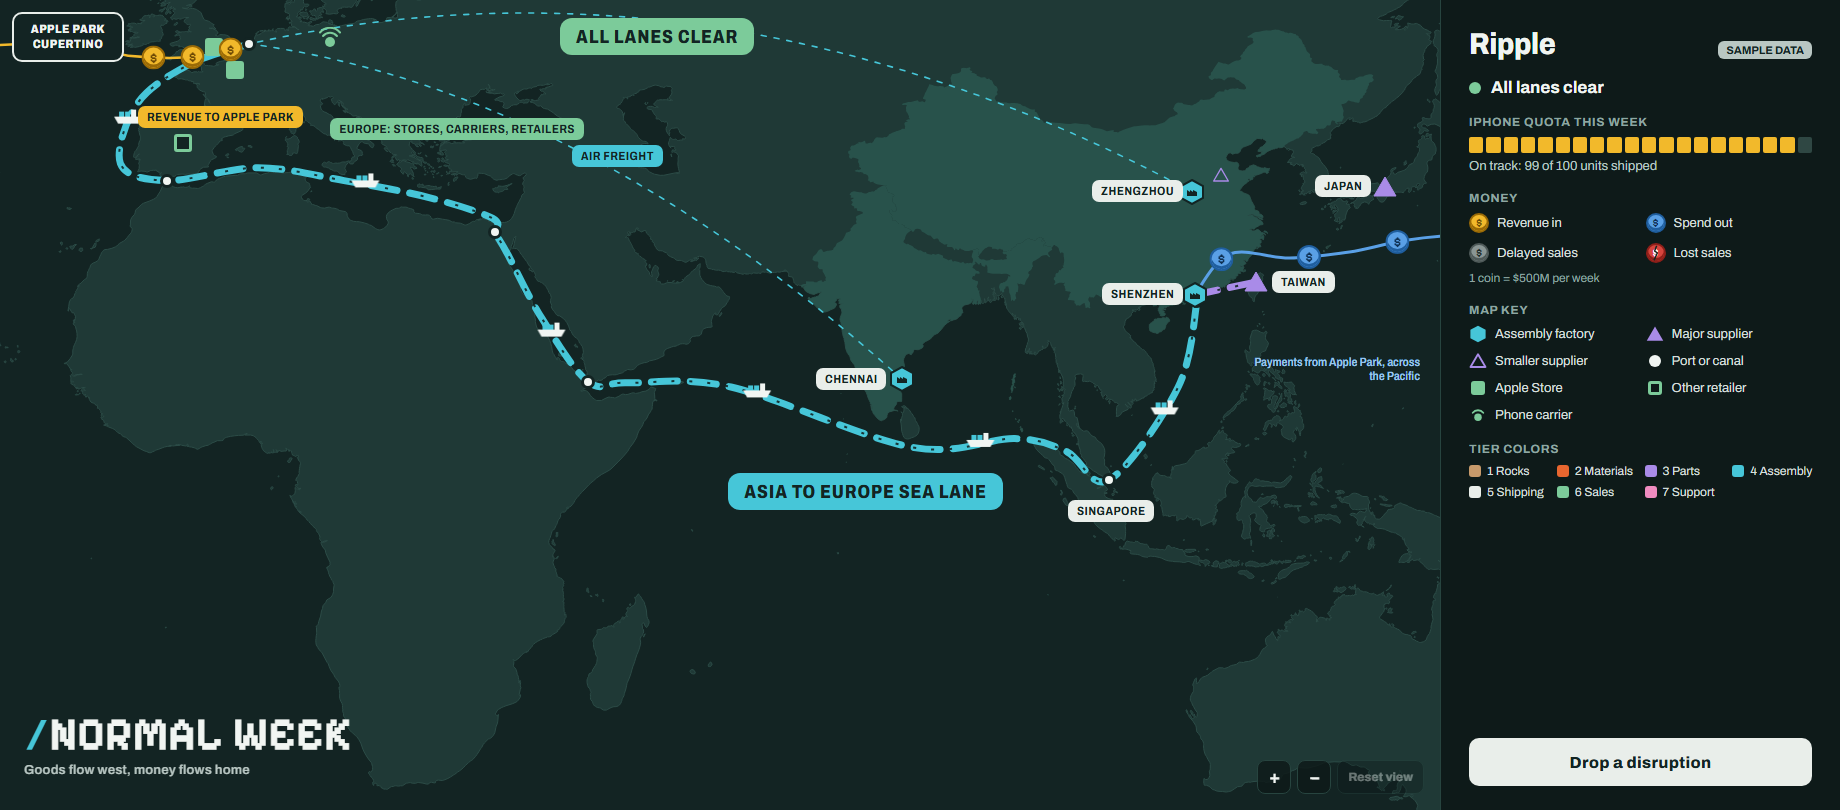
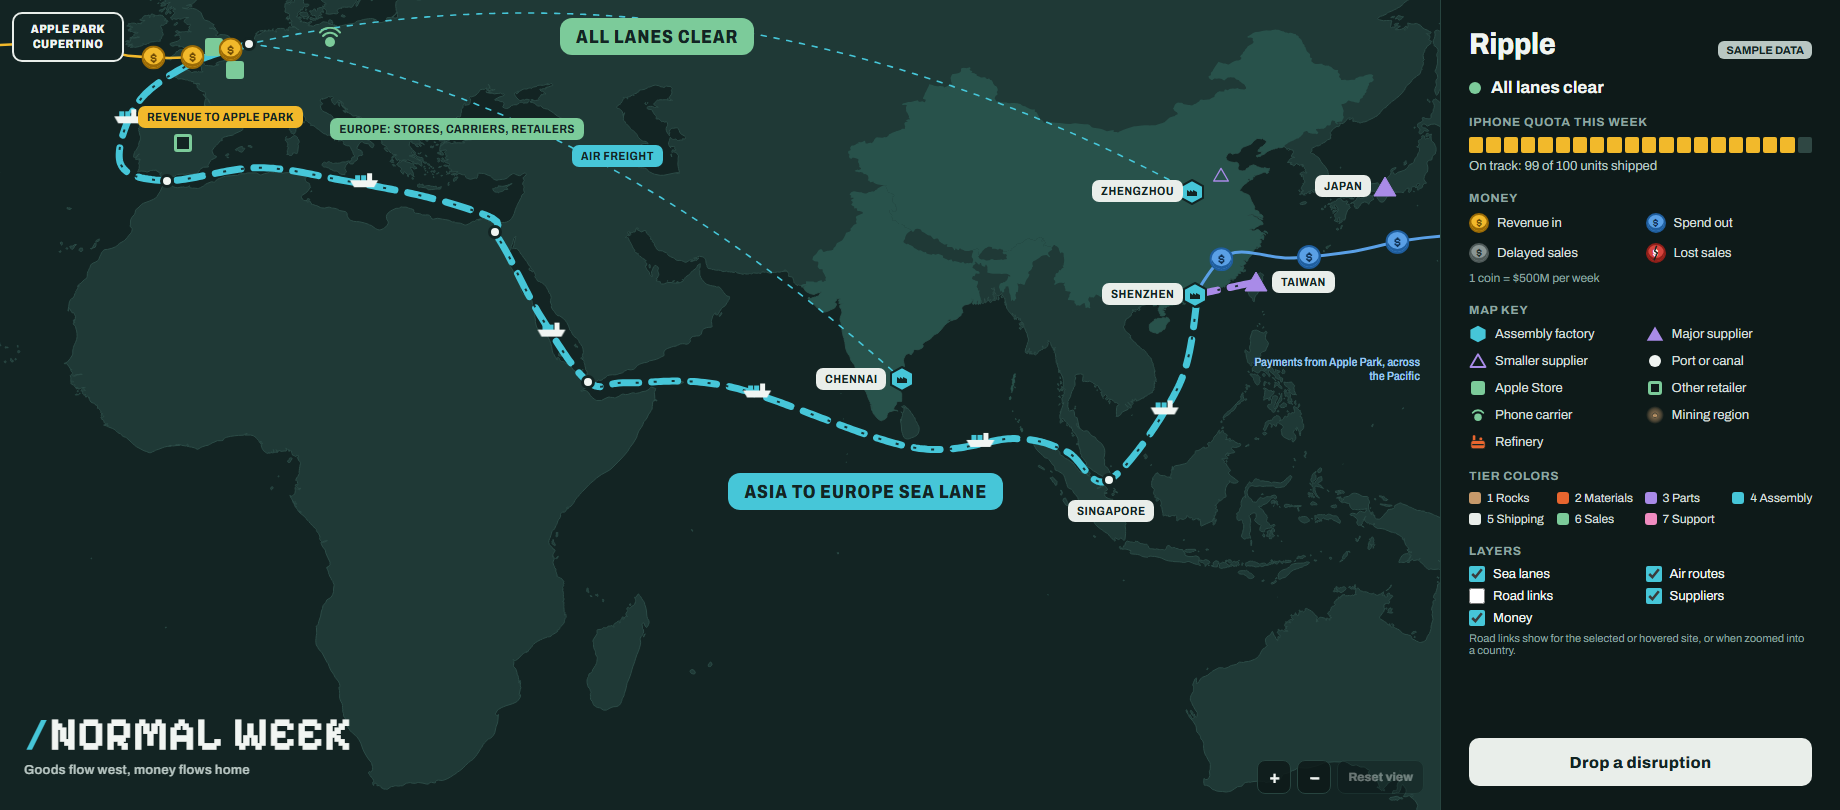
W8: default-view check in the build (labels, ships on land, route spans, line cap); real-data screenshots; lost coins back on screen

diff --git a/web/lib/disruption.ts b/web/lib/disruption.ts
@@ -220,7 +220,8 @@ export function buildDisruptionScene(
       const box = placeBox(spiral(stackX + 16, top - 5, w, h, 80), layout);
       if (box) pills.push({ key: "delayed", text, big: false, bg: color.textSecondary, fg: color.ocean, x: box.x, y: box.y });
     }
-    const from = path.atFraction(0.4);
+    // Lost coins fall from the visible stretch of the line (before the pinned Apple Park card).
+    const from = path.at(end * 0.4);
     const fall = new Polyline(sampleSmooth([from, [from[0] - 8, from[1] + FALL_DISTANCE * 0.33], [from[0] + 6, from[1] + FALL_DISTANCE * 0.66], [from[0] - 6, from[1] + FALL_DISTANCE]]));
     for (let k = 0; k < risk.lost; k++) {
       const turn = [0, 25, -30, 40][k % 4] || 30;

diff --git a/web/components/MoverLayer.tsx b/web/components/MoverLayer.tsx
@@ -97,7 +97,12 @@ export default function MoverLayer({ movers }: { movers: Mover[] }) {
   const [mask, setMask] = useState<LandMask | null>(null);
   useEffect(() => {
     let live = true;
-    loadLandMask().then((m) => live && setMask(m));
+    loadLandMask().then((m) => {
+      if (!live) return;
+      setMask(m);
+      // For checks: is a map-pixel point on land?
+      if (m) (window as unknown as { __rippleIsLand?: LandMask["isLand"] }).__rippleIsLand = m.isLand;
+    });
     return () => {
       live = false;
     };

diff --git a/web/parity/README.md b/web/parity/README.md
@@ -47,3 +47,38 @@ delayed coin stack, falling lost coins, and the four disruption sections with th
 | Extra panel lines: option assumption note, "Back to a normal week", "What matters most", replay section | Data rules require labeling assumptions; W11 adds the sensitivity chart and W7 the replay (the panel scrolls); the link returns to free flow. |
 | Quota chart has 5 points, not 7 | The fixture has 5 weeks. |
 | Zoom controls (+, −, Reset view) in the map's bottom-right corner | Added at the human's request: the map pans and zooms over the whole world so sites in the Americas can be reached. It opens on the concept-art view, so everything else in that view is unchanged. |
+| Map key adds "Mining region" and "Refinery"; a Layers section follows the tier colors | Added at the human's request (mines, refineries, layer toggles); the panel scrolls. |
+| What's affected shows "× avg" under each score and a ranking note | The human asked for risk relative to the event's average and for actual hits to be marked. |
+| Ship count differs slightly | The human set a rule of at most one ship per lane per 200 screen pixels, about 20 on screen. |
+
+## Final round (real data)
+
+Generated by `node scripts/screenshot.mjs --reduced --out parity/real` (real data) plus the
+views below; `node scripts/check-default.mjs` checks the default view (no overlapping
+labels, no ships on land, no route across the whole map, at most 60 lines) and runs as
+part of `npm run build`, so the web checks include it.
+
+| View | File |
+|---|---|
+| Default view against the concept art | `real/free-flow.side-by-side.png` |
+| Suez 2021 against the concept art | `real/suez-blocked.side-by-side.png` |
+| Asia zoom (region band) | `real/asia.png` |
+| China zoom (country band: clusters split into sites, road links shown) | `real/china.png` |
+| Zhengzhou trace | `real/trace-zhengzhou.png` |
+| Suez ripple, 0.85 s after the drop, and its final state | `real/suez-ripple.png`, `real/suez-ripple-final.png` |
+
+Differences from the concept art on real data, with reasons:
+
+| Difference | Reason |
+|---|---|
+| Supplier sites drawn as numbered cluster bubbles colored by their most common tier | 704 disclosed sites; at world and region zoom they cluster (the human's declutter rule) and split into triangles when zoomed into a country. |
+| Five sea lanes into Europe drawn as one, labelled "ASIA-EUROPE VIA SUEZ" | The export has one lane per port pair; lanes sharing water are drawn once and labelled once by corridor. |
+| Air arcs from several Asian airports | One arc per origin airport and destination region, top five at world zoom. |
+| Sales regions are green "SALES REGION" pills instead of stores | The export gives Apple's five reporting regions, not stores. |
+| More region labels than the reference | One per supplier region that fits, biggest clusters first, never overlapping. |
+| Revenue lines from Asia leave the right edge | Money from Asia flows back across the Pacific to Apple Park. |
+
+## Fixed in the final round
+
+- Falling lost coins had moved off-screen once the revenue line was extended to Cupertino;
+  they fall from the visible stretch again, as in the reference.
